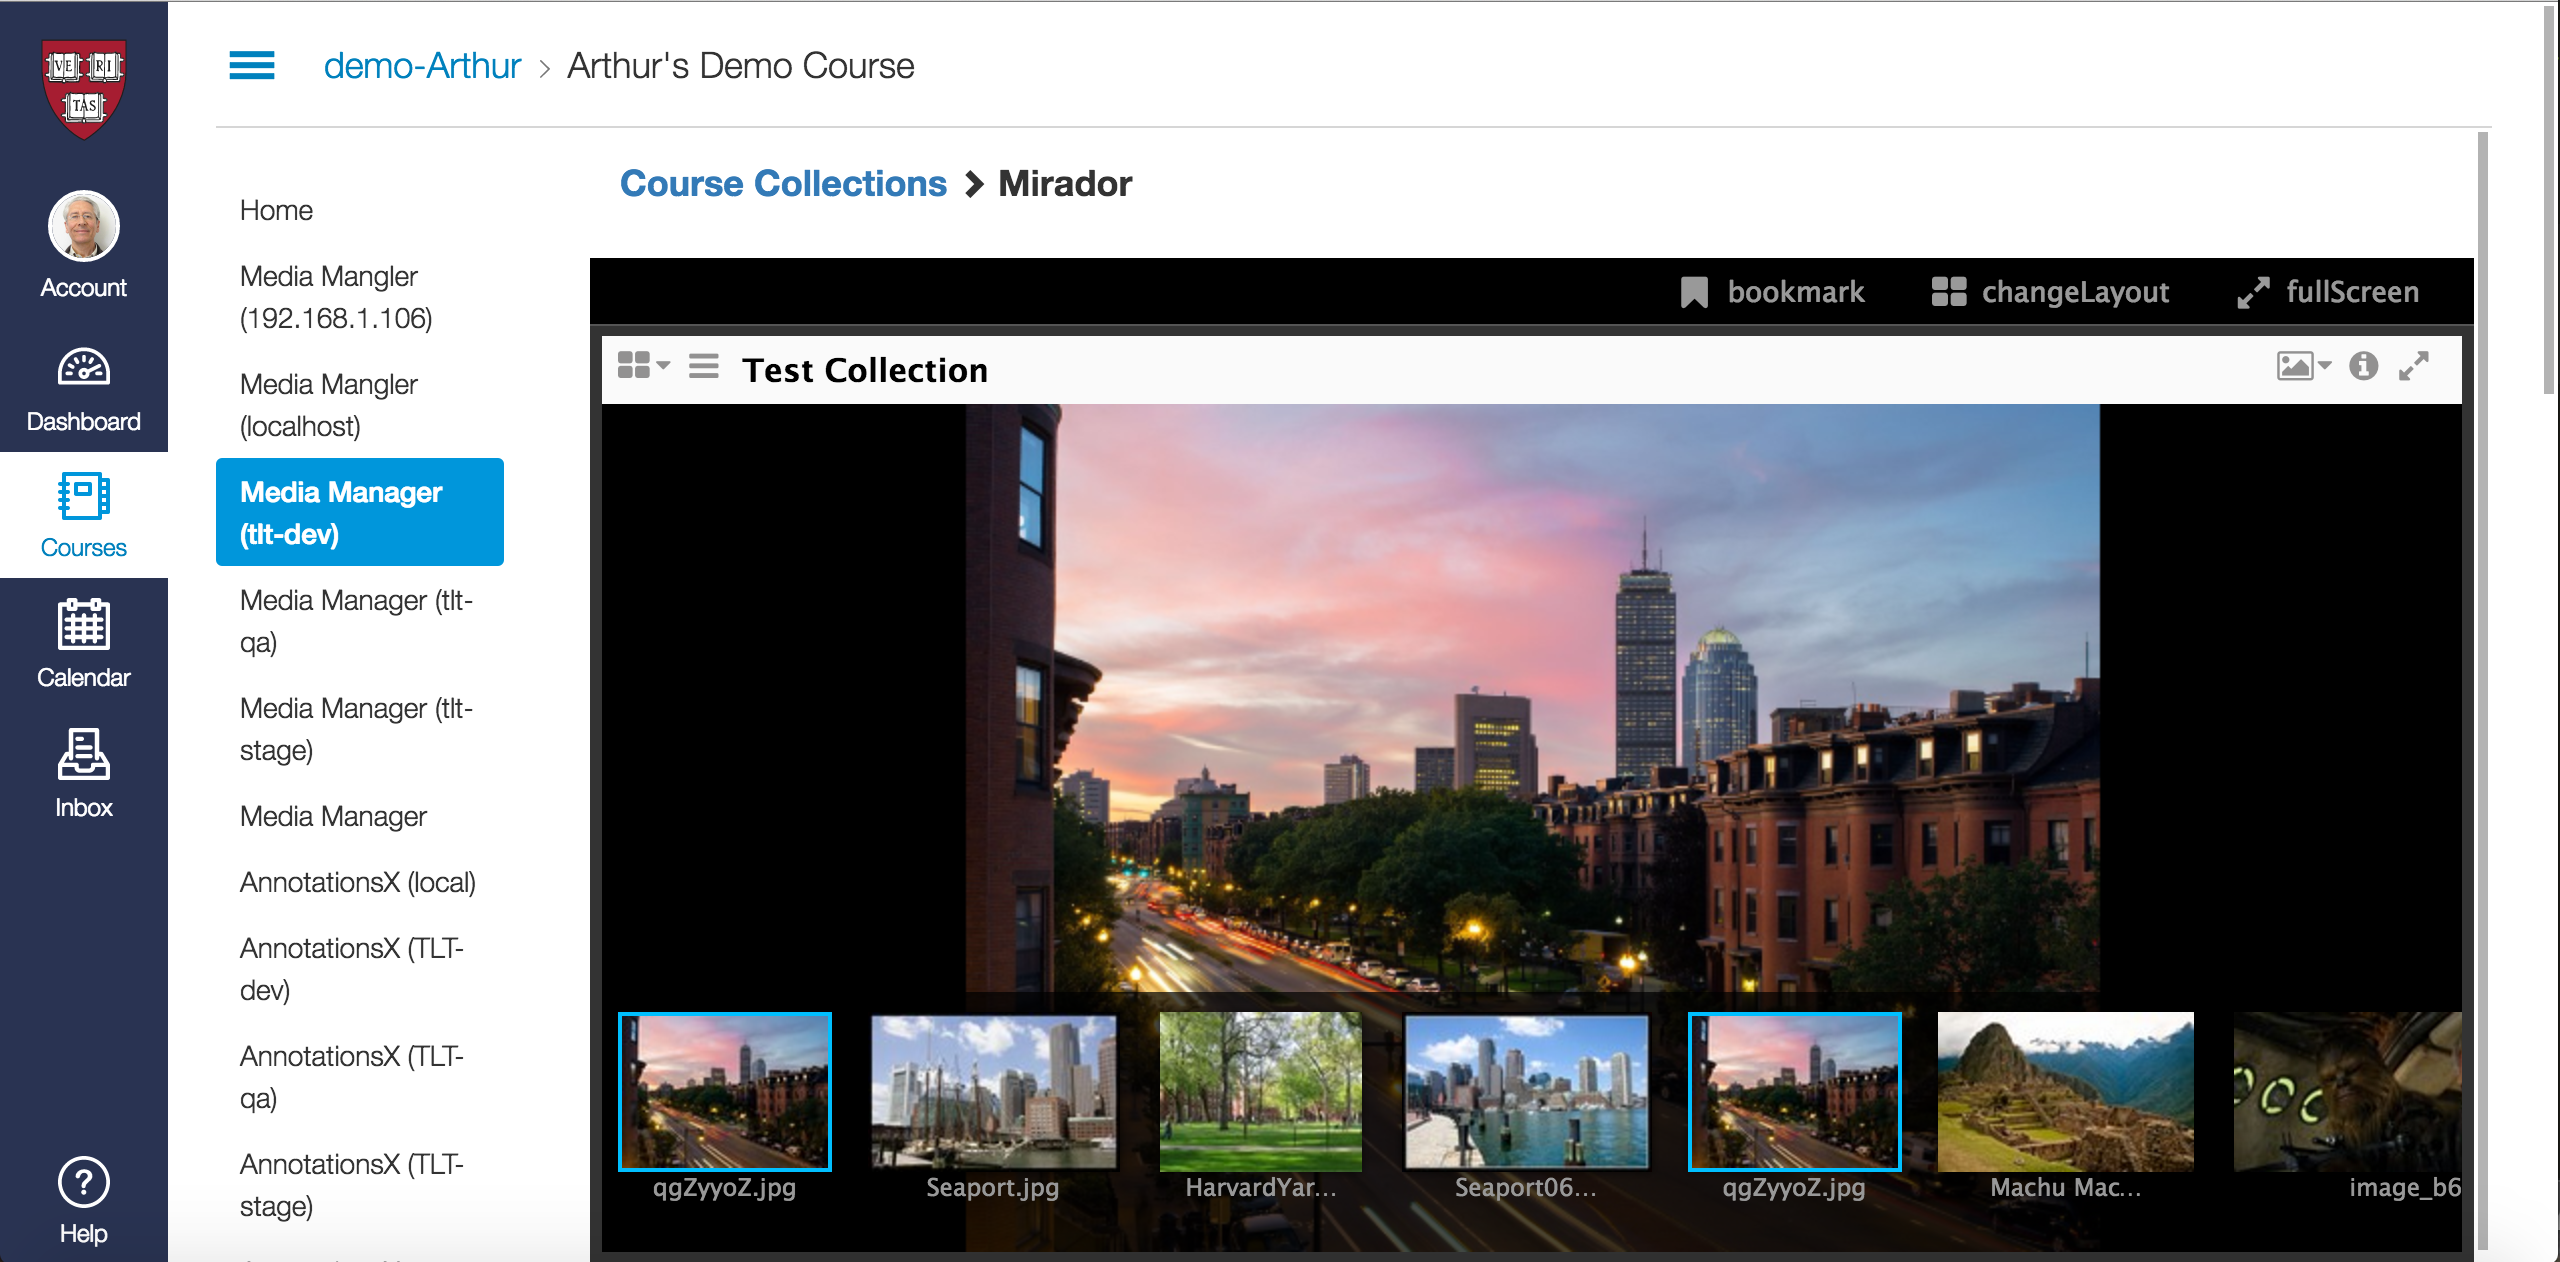
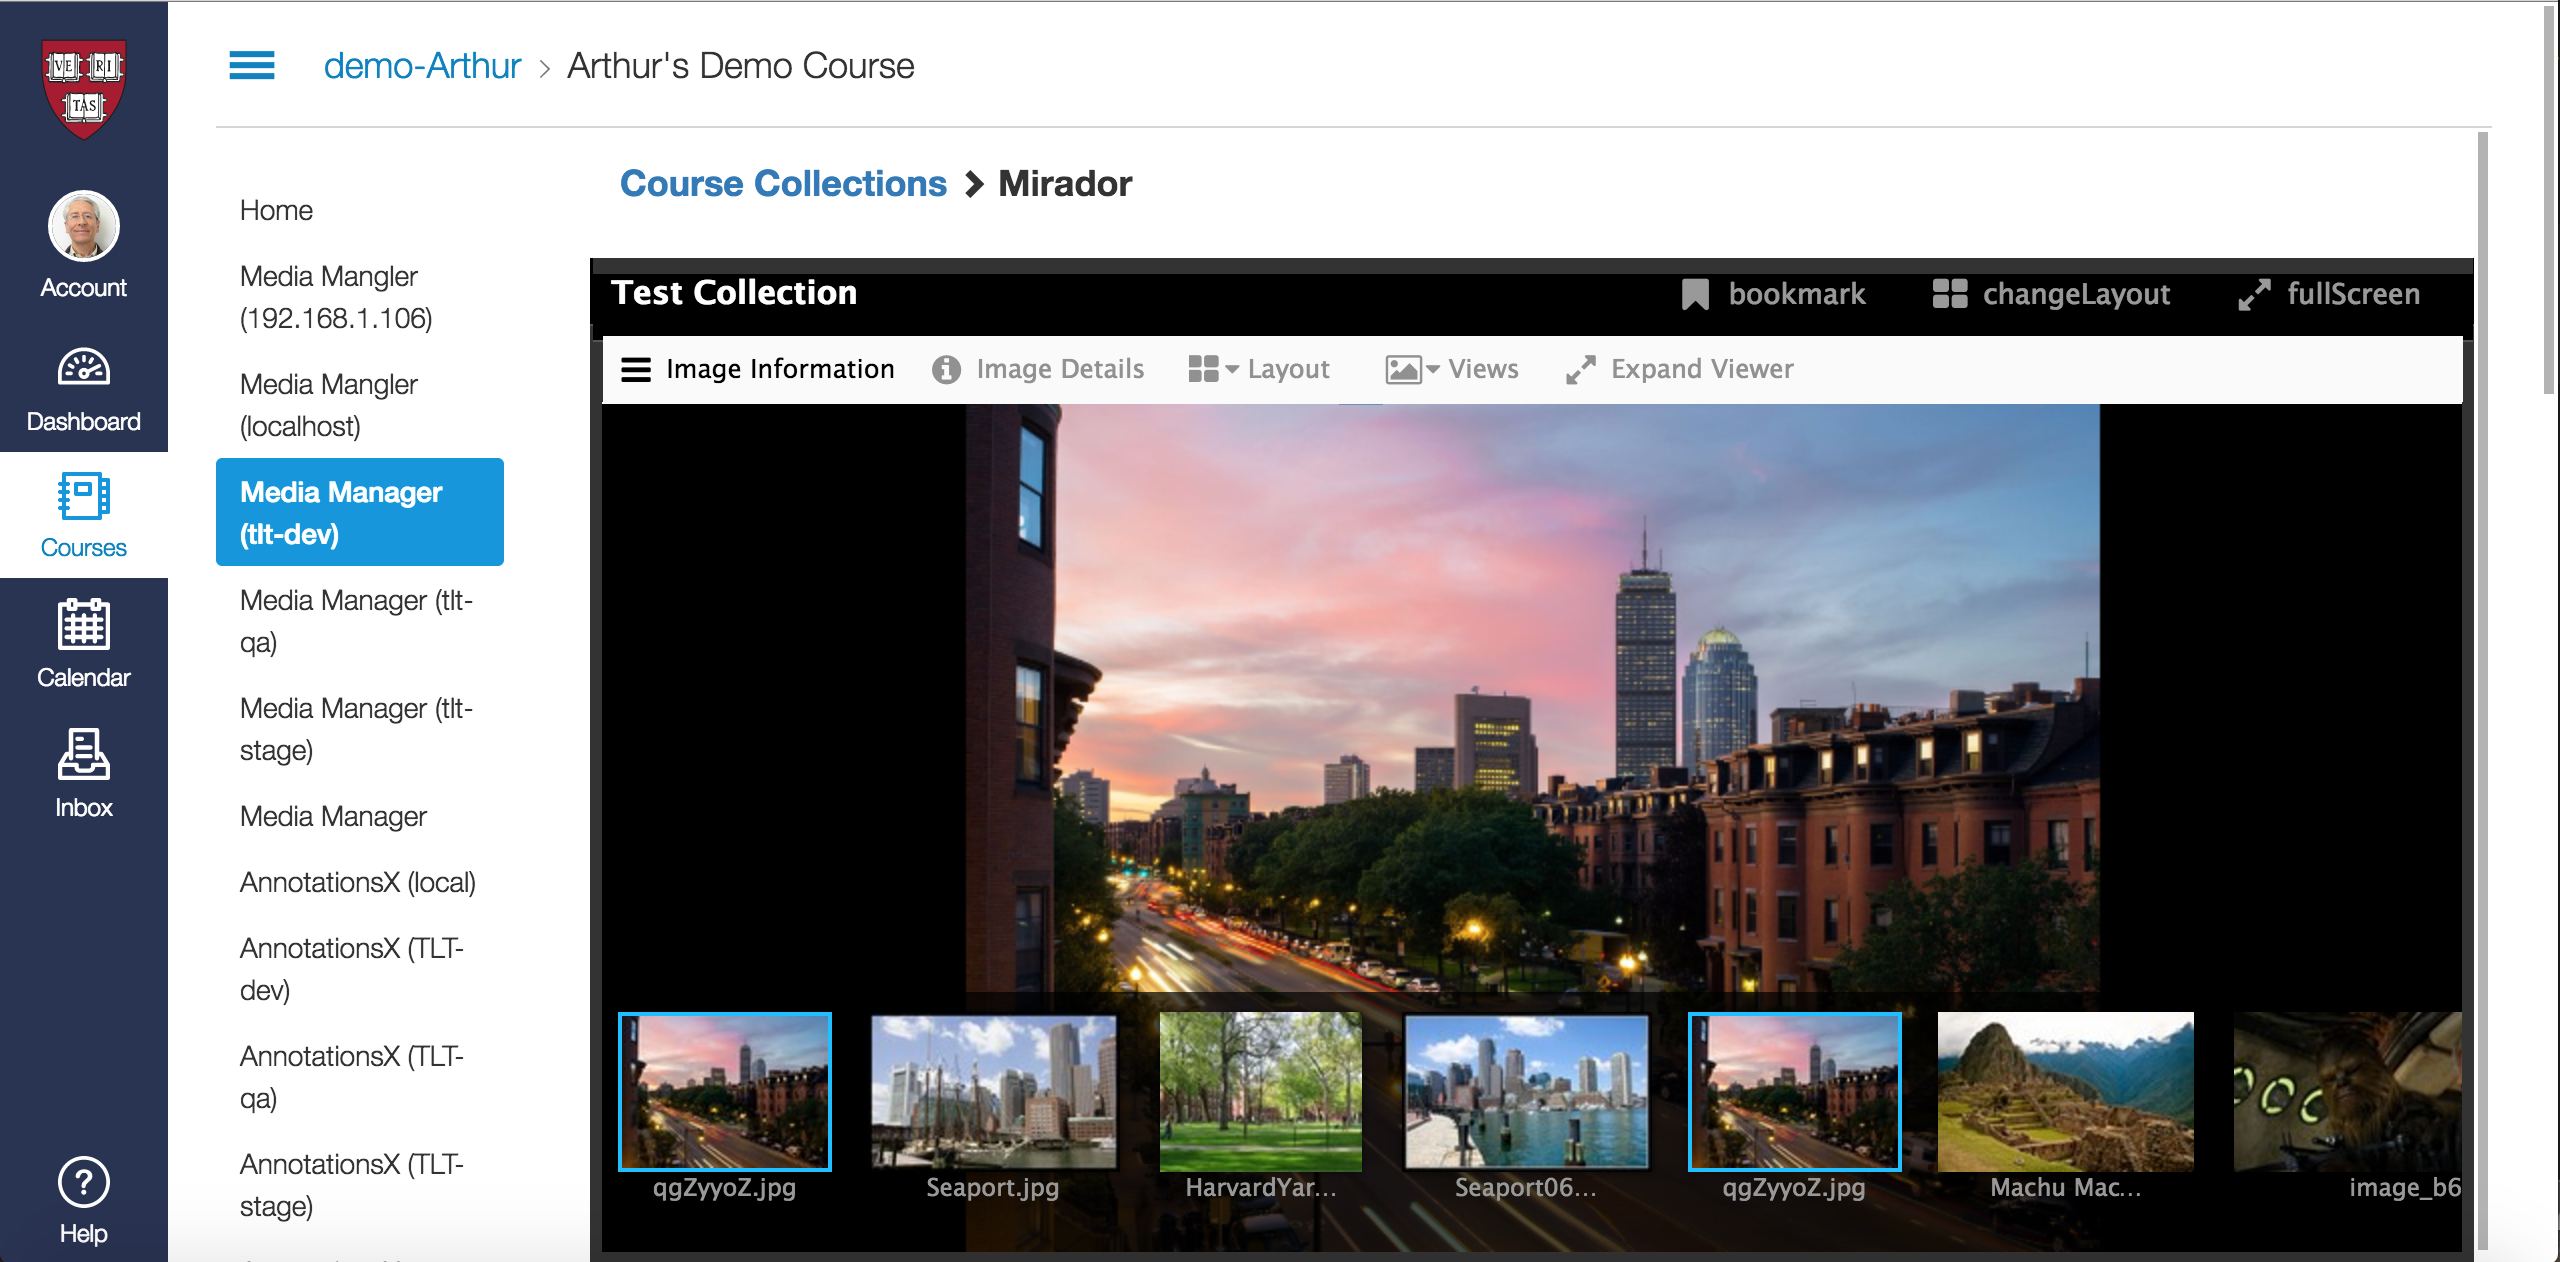
Mirador_Upper_Nav_Icons, proposed screen and UI

Changed region(s): [[0.2188, 0.1854, 0.9688, 0.309]]

diff --git a/Mirador_Upper_Nav_Icons/index.html b/Mirador_Upper_Nav_Icons/index.html
@@ -22,7 +22,12 @@ window.appConfig = {
 <body marginwidth="0" marginheight="0">
 	<div id="viewer" style="position: fixed; background-image: url(&quot;build/mirador/images/debut_dark.png&quot;); background-color: rgb(51, 51, 51); background-position: left top; background-repeat: repeat;">
 		<div class="mirador-main-menu-bar">
-			<ul class="mirador-main-menu">
+
+<!-- UI comment - Change h3 to span, moving collection name up here -->
+			<div class="window-manifest-title" aria-label="Test Collection" data-hasqtip="7" oldtitle="Test Collection" title="" aria-describedby="qtip-7">Test Collection</div>
+
+<!-- UI comment - moving ul up to line up with collection name -->
+			<ul class="mirador-main-menu" style="margin-top:-2.35em">
 				<li>
 					<a href="javascript:;" class="bookmark-workspace mainmenu-button" aria-label="bookmarkTooltip" data-hasqtip="0" oldtitle="bookmarkTooltip" title="">
 						<span class="fa fa-bookmark fa-lg fa-fw">
@@ -65,69 +70,99 @@ window.appConfig = {
 										<div class="window">
 											<div class="manifest-info">
 												<div class="window-manifest-navigation">
-													<a href="javascript:;" class="mirador-btn mirador-icon-view-type" role="button" title="viewTypeTooltip" aria-label="viewTypeTooltip">
-														<i class="fa fa-photo fa-lg fa-fw">
+
+<!-- UI comment - moved these menu items along the other ones on the left -->
+
+												</div>
+
+<!-- UI comment - add an inline style to allow room for text label -->
+														<a href="javascript:;" class="mirador-btn mirador-icon-toc mirador-tooltip" aria-label="sidePanelTooltip" data-hasqtip="6" oldtitle="sidePanelTooltip" title="" aria-describedby="qtip-6" style="width: 12.5em">
+															<i class="fa fa-bars fa-lg fa-fw">
+															</i>
+
+<!-- UI comment - add a label for this button -->
+															Image Information
+														</a>
+
+<!-- UI comment - Moving this button and menu here, adding an inline style to allow room for text label -->
+
+														<a href="javascript:;" class="mirador-btn mirador-icon-metadata-view mirador-tooltip" role="button" aria-label="metadataTooltip" data-hasqtip="3" oldtitle="metadataTooltip" title="" style="width: 10em">
+															<i class="fa fa-info-circle fa-lg fa-fw">
+															</i>
+
+<!-- UI comment - add a label for this button -->
+															Image Details
+															</a>
+
+<!-- UI comment - add an inline style to allow room for text label -->
+													<a href="javascript:;" class="mirador-btn mirador-icon-window-menu" title="changeLayoutTooltip" aria-label="changeLayoutTooltip" style="width: 7em">
+														<i class="fa fa-th-large fa-lg fa-fw">
 														</i>
 														<i class="fa fa-caret-down">
 														</i>
-														<ul class="dropdown image-list" style="display: none; opacity: 0.98; height: 140px;">
-															<li class="single-image-option">
-																<i class="fa fa-photo fa-lg fa-fw">
-																</i> imageView</li>
+
+<!-- UI comment - add a label for this button -->
+														Layout
+														<ul class="dropdown slot-controls" style="display: none; opacity: 0.98; height: 176px;">
+															<li class="new-object-option">
+																<i class="fa fa-refresh fa-lg fa-fw">
+																</i> newObject</li>
+																<hr class="menu-divider">
+															<li class="add-slot-right">
+																<i class="fa fa-arrow-circle-right fa-lg fa-fw">
+																</i> addSlotRight</li>
+															<li class="add-slot-left">
+																<i class="fa fa-arrow-circle-left fa-lg fa-fw">
+																</i> addSlotLeft</li>
+															<li class="add-slot-above">
+																<i class="fa fa-arrow-circle-up fa-lg fa-fw">
+																</i> addSlotAbove</li>
+															<li class="add-slot-below">
+																<i class="fa fa-arrow-circle-down fa-lg fa-fw">
+																</i> addSlotBelow</li>
+															</ul>
+														</a>
+
+<!-- UI comment - Moving this button and menu here, adding an inline style to allow room for text label -->
+
+														<a href="javascript:;" class="mirador-btn mirador-icon-view-type" role="button" title="viewTypeTooltip" aria-label="viewTypeTooltip" style="width: 6em">
+															<i class="fa fa-photo fa-lg fa-fw">
+															</i>
+															<i class="fa fa-caret-down">
+															</i>
+
+<!-- UI comment - add a label for this button -->
+															Views
+															<ul class="dropdown image-list" style="display: none; opacity: 0.98; height: 140px;">
+																<li class="single-image-option">
+																	<i class="fa fa-photo fa-lg fa-fw">
+																	</i> imageView</li>
 																<li class="book-option">
 																	<i class="fa fa-columns fa-lg fa-fw">
 																	</i> bookView</li>
-																	<li class="scroll-option">
-																		<i class="fa fa-ellipsis-h fa-lg fa-fw">
-																		</i> scrollView</li>
-																		<li class="thumbnails-option">
-																			<i class="fa fa-th fa-lg fa-rotate-90 fa-fw">
-																			</i> thumbnailsView</li>
-																		</ul>
-																	</a>
-																	<a href="javascript:;" class="mirador-btn mirador-icon-metadata-view mirador-tooltip" role="button" aria-label="metadataTooltip" data-hasqtip="3" oldtitle="metadataTooltip" title="">
-																		<i class="fa fa-info-circle fa-lg fa-fw">
-																		</i>
-																	</a>
-																	<a class="mirador-btn mirador-osd-fullscreen mirador-tooltip" role="button" aria-label="fullScreenWindowTooltip" data-hasqtip="4" oldtitle="fullScreenWindowTooltip" title="" aria-describedby="qtip-4">
-																		<i class="fa fa-lg fa-fw fa-expand">
-																		</i>
-																	</a>
-																</div>
-																<a href="javascript:;" class="mirador-btn mirador-close-window remove-object-option mirador-tooltip" aria-label="closeTooltip" data-hasqtip="5" oldtitle="closeTooltip" title="" style="display: none;">
-																	<i class="fa fa-times fa-lg fa-fw">
-																	</i>
-																</a>
-																<a href="javascript:;" class="mirador-btn mirador-icon-window-menu" title="changeLayoutTooltip" aria-label="changeLayoutTooltip">
-																	<i class="fa fa-th-large fa-lg fa-fw">
-																	</i>
-																	<i class="fa fa-caret-down">
-																	</i>
-																	<ul class="dropdown slot-controls" style="display: none; opacity: 0.98; height: 176px;">
-																		<li class="new-object-option">
-																			<i class="fa fa-refresh fa-lg fa-fw">
-																			</i> newObject</li>
-																			<hr class="menu-divider">
-																			<li class="add-slot-right">
-																				<i class="fa fa-arrow-circle-right fa-lg fa-fw">
-																				</i> addSlotRight</li>
-																				<li class="add-slot-left">
-																					<i class="fa fa-arrow-circle-left fa-lg fa-fw">
-																					</i> addSlotLeft</li>
-																					<li class="add-slot-above">
-																						<i class="fa fa-arrow-circle-up fa-lg fa-fw">
-																						</i> addSlotAbove</li>
-																						<li class="add-slot-below">
-																							<i class="fa fa-arrow-circle-down fa-lg fa-fw">
-																							</i> addSlotBelow</li>
-																						</ul>
-																					</a>
-																					<a href="javascript:;" class="mirador-btn mirador-icon-toc mirador-tooltip" aria-label="sidePanelTooltip" data-hasqtip="6" oldtitle="sidePanelTooltip" title="" aria-describedby="qtip-6">
-																						<i class="fa fa-bars fa-lg fa-fw">
-																						</i>
-																					</a>
-																					<h3 class="window-manifest-title" aria-label="Test Collection" data-hasqtip="7" oldtitle="Test Collection" title="" aria-describedby="qtip-7">Test Collection</h3>
-																				</div>
+																<li class="scroll-option">
+																	<i class="fa fa-ellipsis-h fa-lg fa-fw">
+																	</i> scrollView</li>
+																<li class="thumbnails-option">
+																	<i class="fa fa-th fa-lg fa-rotate-90 fa-fw">
+																	</i> thumbnailsView</li>
+															</ul>
+														</a>
+
+<!-- UI comment - Moving this button and menu here, adding an inline style to allow room for text label -->
+
+														<a class="mirador-btn mirador-osd-fullscreen mirador-tooltip" role="button" aria-label="fullScreenWindowTooltip" data-hasqtip="4" oldtitle="fullScreenWindowTooltip" title="" aria-describedby="qtip-4" style="width: 10em">
+															<i class="fa fa-lg fa-fw fa-expand">
+															</i>
+
+<!-- UI comment - add a label for this button -->
+															Expand Viewer
+														</a>
+														<a href="javascript:;" class="mirador-btn mirador-close-window remove-object-option mirador-tooltip" aria-label="closeTooltip" data-hasqtip="5" oldtitle="closeTooltip" title="" style="display: none;">
+															<i class="fa fa-times fa-lg fa-fw">
+															</i>
+														</a>
+													</div>
 																				<div class="content-container">
 																					<div class="sidePanel minimized" style="transition-duration: 0.3s; border: none; width: 20px;">
 																						<ul class="tabGroup">
